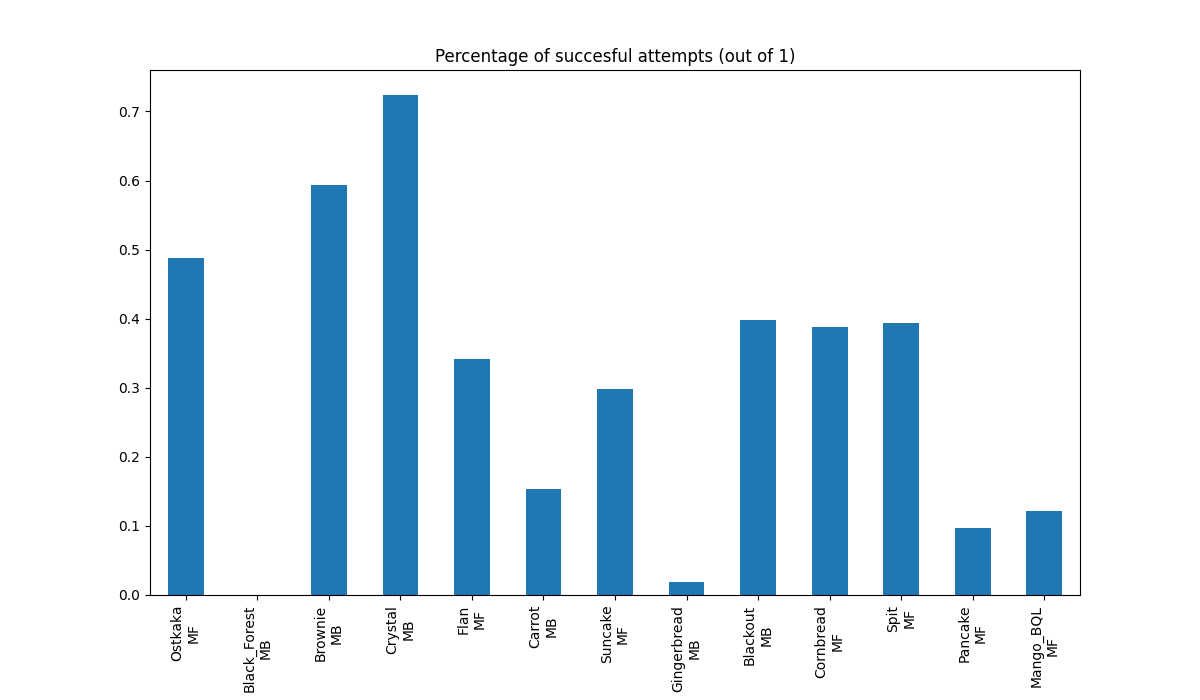
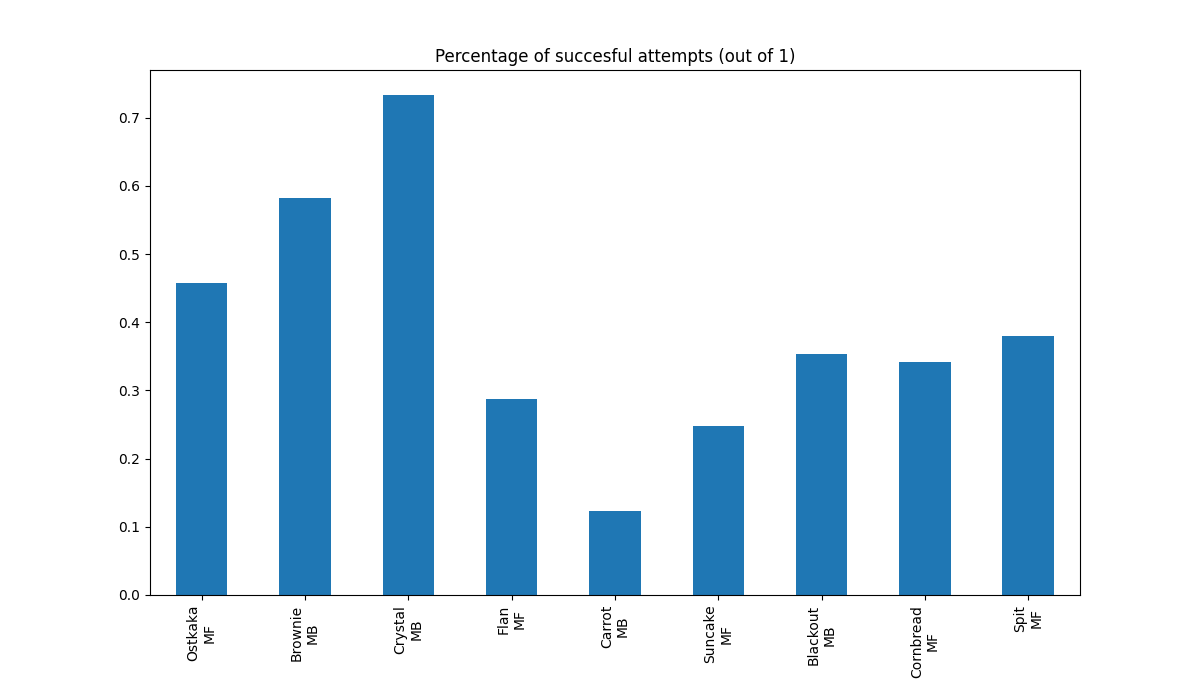
Added new graphs

diff --git a/results/resources/graphs.py b/results/resources/graphs.py
@@ -7,6 +7,12 @@ try:
     from agent_parameters import PARAMETERS
 except:
     from resources.agent_parameters import PARAMETERS
+try:
+    from resources.Domain import DOMAINS, Domain
+except:
+    from Domain import DOMAINS, Domain
+from domain_paramaters import DOMAIN_PARAMS
+
 import matplotlib.pyplot as plt
 import matplotlib.colors as clr
 import matplotlib.gridspec as gspc
@@ -30,14 +36,15 @@ def plot_model_based_histogram():
      agent.database.loc[:, 'wall-time'].quantile(0.95) >= x] for agent in mb] # filter out percentile <= 0.05
     ).T
     data_mb.columns = [agent.name for agent in mb]
-    mbfig, mbax = plt.subplots(figsize=(12, 10))
-    mbfig.add_gridspec(1, 1, 
-                       bottom=0.3)
-    mbax.hist(data_mb, histtype='bar', bins=10, color=colors[:len(mb)], label=[a.name for a in mb])
+    mbfig = plt.figure(figsize=(12, 7))
+    gs = mbfig.add_gridspec(1, 1, right=0.85, bottom=0.1)
+    mbax = mbfig.add_subplot(gs[0, 0])
+    plt.hist(data_mb, stacked=False, color=colors[:len(mb)], label=[a.name for a in mb])
     mbax.set_xlabel('זמן קיר בשניות'[::-1])
     mbax.set_title('פילוג אמפירי של זמני הפתרון בסוכנים מבוססי המודלים'[::-1])
-    mbax.legend(bbox_to_anchor=(1.02, 1))
-    plt.show()
+    plt.legend(bbox_to_anchor=(1.02, 1))
+    file = open('resources\graphs\model_based_histogram.png', 'wb+')
+    plt.savefig(file)
 
 
 def plot_model_free_histogram():
@@ -48,12 +55,15 @@ def plot_model_free_histogram():
         agent.database.loc[:, 'wall-time'].quantile(0.95) >= x] for agent in mf] # filer out percentile <= 0.05
     ).T
     data_mf.columns = [agent.name for agent in mf]
-    mffig, mfax = plt.subplots(figsize=(12, 10))
-    mfax.hist(data_mf, histtype='bar', bins=10, color=colors[:len(mf)], label=[a.name for a in mf])
-    mfax.set_xlabel('זמן הקיר בשניות'[::-1])
-    mfax.set_title('פילוג אמפירי של זמני הפתרון בסוכנים שאינם מבוססי מודלים'[::-1])
-    mfax.legend(bbox_to_anchor=(1.02, 1))
-    plt.show()
+    mffig = plt.figure(figsize=(12, 7))
+    gs = mffig.add_gridspec(1, 1, right=0.85, bottom=0.1)
+    mbax = mffig.add_subplot(gs[0, 0])
+    plt.hist(data_mf, stacked=False, color=colors[:len(mf)], label=[a.name for a in mf])
+    mbax.set_xlabel('זמן קיר בשניות'[::-1])
+    mbax.set_title('פילוג אמפירי של זמני הפתרון בסוכנים מבוססי המודלים'[::-1])
+    plt.legend(bbox_to_anchor=(1.02, 1))
+    file = open('resources\graphs\model_free_histogram.png', 'wb+')
+    plt.savefig(file)
 
 def plot_bars_per_agents():
     for agent in AGENTS:
@@ -77,10 +87,28 @@ def plot_bars_per_parameters(): # saves results in graphs\plots_per_parameter
         plt.title(param.name)
         file = open('resources\graphs\plots_per_parameter\\' + param.name + '.png', 'wb+')
         plt.savefig(file)
-        
+
+
+def plot_domain_bars_per_parameters():
+    for param in DOMAIN_PARAMS:
+        fig = plt.figure(figsize=(12, 7))
+        data = pd.DataFrame({key: [value] for key, value in param.get_parameter_report(DOMAINS).items()}).T
+        data.index = [d.name.split('-')[0] for d in DOMAINS]
+        gs = fig.add_gridspec(1, 1, bottom=0.15, top=0.9)
+        ax = fig.add_subplot(gs[0, 0])
+        data.plot.bar(ax=ax)
+        ax.get_legend().remove()
+        plt.title(param.name)
+        file = open('resources\graphs\domains\\' + param.name.split('-')[0] + '.png', 'wb+')
+        plt.savefig(file)
+
 
 def main():
     plot_bars_per_parameters()
+    plot_domain_bars_per_parameters()
+    plot_model_based_histogram()
+    plot_model_free_histogram()
+
 
 if __name__ == '__main__':
     main()

diff --git a/results/resources/Agent.py b/results/resources/Agent.py
@@ -5,12 +5,15 @@ except:
     from AgentParameter import AgentParameter
 
 # CONSTANTS: The data from these domains and agents will not be taken into account in the final results
-AGENTS_TO_IGNORE = ['Cornbread']
+DOMAINS_TO_IGNORE = ['tpp-probabilistic', 'tsp-probabilistic', 'freecell-probabilistic']
 
 def get_agent_database(name, get_learning): # if get_learning i set to false then lines with learning=True will not be included 
     database = pd.read_csv('master.csv').drop(columns=['stderr', 'perception-requests', 'actions', 'terminated'])
-    valid_items = (database['agent'] == name) & ((database['learning'] == False) | (database['learning'] == get_learning))
-    database = database.loc[valid_items]
+    #valid_items = (database['agent'] == name) & ((database['learning'] == False) | (database['learning'] == get_learning))
+    database = database.loc[database['agent'] == name]
+    database = database.loc[database['learning'].map(lambda x: x == False or x == get_learning)]
+    database = database.loc[database['domain'].map(lambda x: x not in DOMAINS_TO_IGNORE)]
+    #database = database.loc[valid_items]
     database.sort_values(by='wall-time')
     return database
 

diff --git a/results/resources/agents.py b/results/resources/agents.py
@@ -5,19 +5,19 @@ except:
 
 agent_names = {
     "Ostkaka": 'mf',
-    "Black_Forest": 'mb',
+    #"Black_Forest": 'mb',
     "Brownie": 'mb',
     "Crystal": 'mb',
     "Flan": 'mf',
     "Carrot": 'mb',
     "Suncake": 'mf',
-    "Gingerbread": 'mb',
+    #"Gingerbread": 'mb',
     "Blackout": 'mb',
     "Cornbread": 'mf',
     "Spit": 'mf',
-    "Pancake": 'mf',
+    #"Pancake": 'mf',
     #'Lemon': 'mb',
-    'Mango_BQL': 'mf'
+    #'Mango_BQL': 'mf'
 }
 
 AGENTS = [Agent(key, get_agent_database(key, True), value == 'mb') for key, value in agent_names.items()]

diff --git a/results/resources/domain_paramaters.py b/results/resources/domain_paramaters.py
@@ -1,6 +1,11 @@
-from resources.DomainParameter import DomainParameter
-
-from resources.Domain import Domain, get_domain_database
+try:
+    from resources.DomainParameter import DomainParameter
+except:
+    from DomainParameter import DomainParameter
+try:
+    from resources.Domain import Domain, get_domain_database
+except:
+    from Domain import Domain, get_domain_database
 import pandas as pd 
 def time_mean(domain: Domain): # returns an average of wall times
     return domain.database.loc[:, 'wall-time'].mean()
